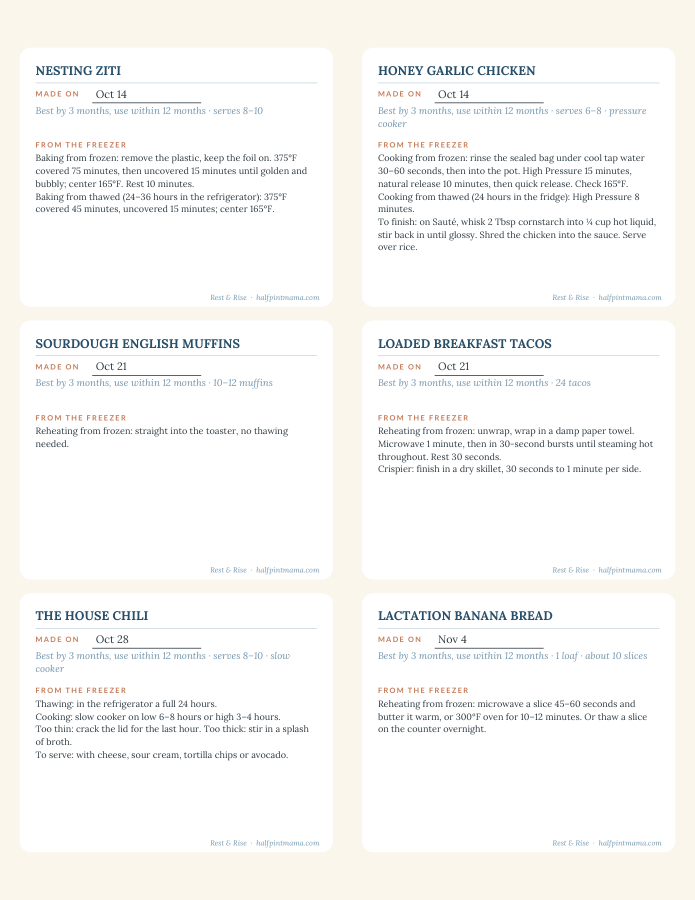
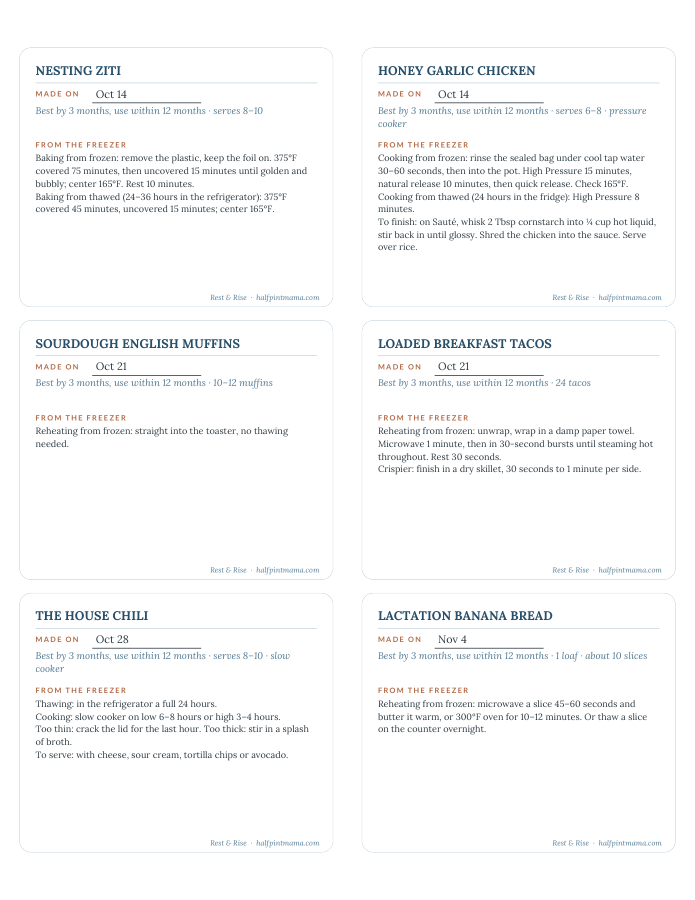
Show the labels in the cart, print-safe label colours, clearer guide
Preorder checkout carries the labels as a $0.00 line with the ship-date
note saying they are included free; after launch the pay page offers them
as an add-on. Orders now read their products from the paid line items as
well as the stamped metadata, so an add-on is fulfilled. The confirmation
names the free labels. Setup creates the $0 bonus price, found by lookup
key. Label sheets print on white with a hairline card and darker small
text so they read in black and white; the guide says to click away to
auto-fill and names the hand-write sheet.

diff --git a/src/lib/shop/labels-pdf.ts b/src/lib/shop/labels-pdf.ts
@@ -74,7 +74,11 @@ const ASSET_DIR = path.join(process.cwd(), "private", "shop");
 const INK = rgb(0x2d / 255, 0x3a / 255, 0x43 / 255);
 const NAVY = rgb(0x27 / 255, 0x4f / 255, 0x6a / 255);
 const STEEL = rgb(0x6f / 255, 0x94 / 255, 0xae / 255);
-const TERRACOTTA = rgb(0xc5 / 255, 0x7b / 255, 0x57 / 255);
+// Small text in the two accent colours is darkened a step from the book's
+// values so it still reads when a buyer prints in black and white: the book's
+// steel and terracotta both grey out to about 55% and vanish at 8pt.
+const STEEL_TEXT = rgb(0x4f / 255, 0x78 / 255, 0x94 / 255);
+const TERRACOTTA = rgb(0xb3 / 255, 0x6a / 255, 0x46 / 255);
 const TINT = rgb(0xe0 / 255, 0xe9 / 255, 0xee / 255);
 const CREAM = rgb(0xfb / 255, 0xf6 / 255, 0xec / 255);
 const WHITE = rgb(1, 1, 1);
@@ -126,7 +130,7 @@ async function loadFonts(doc: PDFDocument): Promise<Fonts> {
 
 // ---- drawing helpers ---------------------------------------------------------
 
-function roundedRect(page: PDFPage, x: number, y: number, w: number, h: number, r: number, color: Color) {
+function roundedRect(page: PDFPage, x: number, y: number, w: number, h: number, r: number, color: Color, border?: { color: Color; width: number; opacity?: number }) {
   // drawSvgPath takes y-down coordinates relative to (x, y) = top-left.
   const d = [
     `M ${r} 0`,
@@ -140,7 +144,7 @@ function roundedRect(page: PDFPage, x: number, y: number, w: number, h: number, 
     `A ${r} ${r} 0 0 1 ${r} 0`,
     "Z",
   ].join(" ");
-  page.drawSvgPath(d, { x, y: y + h, color, borderWidth: 0 });
+  page.drawSvgPath(d, { x, y: y + h, color, borderWidth: border?.width ?? 0, borderColor: border?.color, borderOpacity: border?.opacity });
 }
 
 function tracked(page: PDFPage, text: string, x: number, y: number, size: number, font: PDFFont, color: Color, spacing: number) {
@@ -205,7 +209,7 @@ function labelGeometry(slot: Slot) {
 
 function drawLabelArt(page: PDFPage, slot: Slot, fonts: Fonts, handwrite: boolean) {
   const g = labelGeometry(slot);
-  roundedRect(page, g.card.x, g.card.y, g.card.w, g.card.h, 10, WHITE);
+  roundedRect(page, g.card.x, g.card.y, g.card.w, g.card.h, 10, WHITE, { color: STEEL, width: 0.6, opacity: 0.55 });
 
   // Captions in the book's section-head style: Lato Bold, tracked, terracotta.
   tracked(page, "MADE ON", g.x, g.made.y + 4, 6.5, fonts.caps, TERRACOTTA, 1.2);
@@ -229,7 +233,7 @@ function drawLabelArt(page: PDFPage, slot: Slot, fonts: Fonts, handwrite: boolea
 
   // Quiet footer, like the running foot of the book.
   const foot = "Rest & Rise  ·  halfpintmama.com";
-  page.drawText(foot, { x: g.card.x + g.card.w - 12 - fonts.italic.widthOfTextAtSize(foot, 6.5), y: g.card.y + 6, size: 6.5, font: fonts.italic, color: STEEL });
+  page.drawText(foot, { x: g.card.x + g.card.w - 12 - fonts.italic.widthOfTextAtSize(foot, 6.5), y: g.card.y + 6, size: 6.5, font: fonts.italic, color: STEEL_TEXT });
 }
 
 // Renders a recipe onto a hand-write label as static text (used only for the
@@ -240,14 +244,18 @@ export function previewLabel(page: PDFPage, slot: Slot, fonts: Fonts, name: stri
   const size = Math.min(11, (11 * g.w) / Math.max(g.w, fonts.bold.widthOfTextAtSize(upper, 11)));
   page.drawText(upper, { x: g.x, y: g.title.y + 5, size, font: fonts.bold, color: NAVY });
   page.drawText(made, { x: g.made.x + 3, y: g.made.y + 3, size: 9.5, font: fonts.body, color: INK });
-  paragraph(page, meta, g.x, g.meta.y + g.meta.height - 9, g.w, 8.5, fonts.italic, STEEL, 11.5);
+  paragraph(page, meta, g.x, g.meta.y + g.meta.height - 9, g.w, 8.5, fonts.italic, STEEL_TEXT, 11.5);
   paragraph(page, directions, g.x, g.dir.y + g.dir.height - 9, g.w, 8, fonts.body, INK, 11.2);
 }
 
-function stampFooter(page: PDFPage, fonts: Fonts, email: string) {
+function stampFooter(page: PDFPage, fonts: Fonts, email: string, note?: string) {
   const s = LABEL_SHEET;
-  const text = `Licensed to ${email}  |  Rest & Rise by Half Pint Mama  |  halfpintmama.com  |  Avery ${s.averyWaterproof} (or ${s.avery}) ${s.sizeAscii}, ${s.perSheet} per sheet, print at 100% (actual size)`;
-  page.drawText(text, { x: s.marginLeft, y: 14, size: 6.5, font: fonts.stamp, color: STEEL });
+  // The hand-write sheet says what it is instead of repeating the sheet spec,
+  // which the guide already gives; the line has to fit the page.
+  const text = note
+    ? `${note}  |  Licensed to ${email}  |  Rest & Rise by Half Pint Mama  |  halfpintmama.com`
+    : `Licensed to ${email}  |  Rest & Rise by Half Pint Mama  |  halfpintmama.com  |  Avery ${s.averyWaterproof} (or ${s.avery}) ${s.sizeAscii}, ${s.perSheet} per sheet, print at 100% (actual size)`;
+  page.drawText(text, { x: s.marginLeft, y: 14, size: 6.5, font: fonts.stamp, color: STEEL_TEXT });
 }
 
 // ---- the guide page ----------------------------------------------------------
@@ -298,7 +306,7 @@ function drawGuide(page: PDFPage, fonts: Fonts, email: string) {
   ]);
 
   section("Filling them in", [
-    `Open this file on a computer in Adobe Acrobat Reader (free), Chrome, Edge or Firefox. On each label, click the recipe box and pick a recipe from the book, or type your own. When you pick a book recipe, the best-by line and the freezer directions fill themselves in. Every box stays editable, so shorten or add to anything you like.`,
+    `Open this file on a computer in Adobe Acrobat Reader (free), Chrome, Edge or Firefox. On each label, click the recipe box and pick a recipe from the book, or type your own. Then click anywhere outside the box (or press Tab): the best-by line and the freezer directions fill themselves in. Every box stays editable, so shorten or add to anything you like.`,
     `Apple Preview shows the boxes but will not fill them in for you; type the directions from the book instead, or use one of the readers above.`,
     `Write the date you made the meal. The best-by line fills itself in: most meals are best by three months and safe to use within twelve. Save a copy when you are done so your sheet is there next time.`,
   ]);
@@ -306,7 +314,8 @@ function drawGuide(page: PDFPage, fonts: Fonts, email: string) {
   section("Before you print", [
     `Print pages ${LABEL_PAGE_RANGE} only. This page is for you, not the label sheet.`,
     `Set your printer to Actual Size, or 100 percent. Never Fit to Page. This is the one setting that keeps the text lined up with the labels.`,
-    `Do a test run on plain paper first, then hold it against a blank label sheet up to a window to check the alignment. Once it lines up, load your labels and print. The last label page has no text boxes; it is for handwriting.`,
+    `Do a test run on plain paper first, then hold it against a blank label sheet up to a window to check the alignment. Once it lines up, load your labels and print.`,
+    `The last page is a hand-write sheet: the same card with writing lines, for your own recipes or anything not in the book.`,
   ]);
 
   section("On the bag", [
@@ -371,8 +380,10 @@ export async function buildLabelsPdf({ email, createdAt, prefill }: LabelsPdfOpt
 
   for (let p = 0; p < FILLABLE_PAGES + BLANK_PAGES; p++) {
     const fillable = p < FILLABLE_PAGES;
+    // Label pages get no page colour: they print onto white label stock, and a
+    // tinted page would just be toner over the whole sheet (and a grey wash in
+    // black and white). The guide page keeps the book's cream.
     const page = doc.addPage([s.pageWidth, s.pageHeight]);
-    page.drawRectangle({ x: 0, y: 0, width: s.pageWidth, height: s.pageHeight, color: CREAM });
 
     slots().forEach((slot, i) => {
       drawLabelArt(page, slot, fonts, !fillable);
@@ -411,7 +422,7 @@ export async function buildLabelsPdf({ email, createdAt, prefill }: LabelsPdfOpt
       const meta = form.createTextField(`meta_${n}`);
       meta.enableMultiline();
       meta.setMaxLength(120);
-      meta.addToPage(page, { ...g.meta, borderWidth: 0, backgroundColor: WHITE, textColor: STEEL, font: fonts.italic });
+      meta.addToPage(page, { ...g.meta, borderWidth: 0, backgroundColor: WHITE, textColor: STEEL_TEXT, font: fonts.italic });
       meta.setFontSize(8.5);
       if (pre) meta.setText(recipeMeta(pre));
       meta.updateAppearances(fonts.italic);
@@ -425,7 +436,7 @@ export async function buildLabelsPdf({ email, createdAt, prefill }: LabelsPdfOpt
       dir.updateAppearances(fonts.body);
     });
 
-    stampFooter(page, fonts, email);
+    stampFooter(page, fonts, email, fillable ? undefined : "HAND-WRITE SHEET: for your own recipes or anything not in the book");
   }
 
   const when = createdAt ?? new Date();
@@ -443,4 +454,4 @@ export async function buildLabelsPdf({ email, createdAt, prefill }: LabelsPdfOpt
 }
 
 // For the preview renderer: same fonts and geometry as the real file.
-export const _internals = { loadFonts, slots, drawLabelArt, labelGeometry, CREAM };
+export const _internals = { loadFonts, slots, drawLabelArt, labelGeometry, CREAM, WHITE };

diff --git a/src/app/(site)/api/checkout/route.ts b/src/app/(site)/api/checkout/route.ts
@@ -4,6 +4,7 @@ import { getClientIp, isSameOrigin } from "@/lib/http";
 import { SITE_URL } from "@/lib/seo";
 import { PRODUCTS, getShopPhase, isPurchasable, requiresShipping, type ProductId } from "@/lib/shop/catalog";
 import { META_PHASE, META_PRODUCTS, META_SHIP_ESTIMATE } from "@/lib/shop/orders";
+import { getLabelsBonusPriceId } from "@/lib/shop/prices";
 import {
   collectsTax,
   getMaxBooksPerOrder,
@@ -69,6 +70,16 @@ export async function POST(request: Request) {
     const physical = requiresShipping([product]);
     const shippingRate = process.env.STRIPE_SHIPPING_RATE;
 
+    // The labels ride along with the book: during preorder as a $0.00 line the
+    // buyer can see in the cart, after launch as an optional add-on on the pay
+    // page. Neither changes what the metadata promises; fulfilment reads the
+    // paid lines back from Stripe.
+    const bonusPriceId = phase === "preorder" && product === "book" ? await getLabelsBonusPriceId() : null;
+    const labelsAddOn =
+      phase === "launched" && product === "book" && process.env.STRIPE_PRICE_LABELS
+        ? { optional_items: [{ price: process.env.STRIPE_PRICE_LABELS, quantity: 1 }] }
+        : {};
+
     const session = await getStripe().checkout.sessions.create({
       mode: "payment",
       // Opt out of Managed Payments, Stripe's merchant-of-record product, which
@@ -88,7 +99,9 @@ export async function POST(request: Request) {
             ? { adjustable_quantity: { enabled: true, minimum: 1, maximum: maxBooks } }
             : {}),
         },
+        ...(bonusPriceId ? [{ price: bonusPriceId, quantity: 1 }] : []),
       ],
+      ...labelsAddOn,
       success_url: `${origin}/shop/success?session_id={CHECKOUT_SESSION_ID}`,
       cancel_url: `${origin}/shop`,
       metadata,
@@ -117,7 +130,9 @@ export async function POST(request: Request) {
             // The stated ship date, on the payment page itself (FTC Mail Order
             // Rule: a preorder must say when it ships before taking money).
             custom_text: {
-              submit: { message: `This is a preorder. Your book ships ${shipEstimate}.` },
+              submit: {
+                message: `This is a preorder. Your book ships ${shipEstimate}. Your printable freezer labels are included free and arrive by email as soon as payment clears.`,
+              },
             },
           }
         : {}),

diff --git a/src/lib/shop/orders.ts b/src/lib/shop/orders.ts
@@ -70,6 +70,16 @@ function isRefunded(charge: Stripe.Charge | null): boolean {
   return captured > 0 && charge.amount_refunded >= captured;
 }
 
+// Which product a Stripe Price belongs to, by the env the shop is configured
+// with. Unknown or missing prices map to nothing.
+export function productForPrice(priceId: string | undefined | null): ProductId | null {
+  if (!priceId) return null;
+  for (const id of Object.keys(PRODUCTS) as ProductId[]) {
+    if (process.env[PRODUCTS[id].priceEnv] === priceId) return id;
+  }
+  return null;
+}
+
 // Pure: builds an Order from a session that was retrieved with
 // `payment_intent.latest_charge` expanded. Fails closed — a session without our
 // metadata (not created by our checkout route) has no products and so grants
@@ -77,10 +87,19 @@ function isRefunded(charge: Stripe.Charge | null): boolean {
 export function orderFromSession(session: Stripe.Checkout.Session): Order {
   const meta = session.metadata ?? {};
   const phase: ShopPhase = meta[META_PHASE] === "launched" ? "launched" : "preorder";
-  const productIds = (meta[META_PRODUCTS] ?? "")
+  const stamped = (meta[META_PRODUCTS] ?? "")
     .split(",")
     .map((s) => s.trim())
     .filter((s): s is ProductId => s in PRODUCTS);
+  // After launch the pay page offers the labels as an add-on, which only ever
+  // appears in the line items. Map each paid line back to a product by its
+  // Price ID. The $0 preorder bonus line uses a different Price and so maps to
+  // nothing here; that entitlement comes from the phase, not the cart.
+  const lines = session.line_items?.data ?? [];
+  const fromCart = lines
+    .map((li) => productForPrice(li.price?.id))
+    .filter((id): id is ProductId => id !== null);
+  const productIds = [...new Set([...stamped, ...fromCart])];
 
   const pi = typeof session.payment_intent === "object" ? session.payment_intent : null;
   const charge = pi && typeof pi.latest_charge === "object" ? pi.latest_charge : null;
@@ -100,7 +119,8 @@ export function orderFromSession(session: Stripe.Checkout.Session): Order {
       }
     : null;
 
-  const quantity = session.line_items?.data?.[0]?.quantity ?? 1;
+  const bookLine = lines.find((li) => productForPrice(li.price?.id) === "book") ?? lines[0];
+  const quantity = bookLine?.quantity ?? 1;
 
   return {
     sessionId: session.id,

diff --git a/src/lib/shop/prices.ts b/src/lib/shop/prices.ts
@@ -45,3 +45,19 @@ export async function getDisplayPrice(id: ProductId): Promise<DisplayPrice> {
   cache.set(priceId, { value, expires: Date.now() + TTL_MS });
   return value;
 }
+
+// The $0 "free with preorder" Price on the labels product, created by
+// scripts/shop/setup-stripe.mjs and found by its lookup key so there is no env
+// var to forget. Null when it does not exist; checkout then simply omits the
+// line rather than failing.
+export const LABELS_BONUS_LOOKUP_KEY = "hpm_labels_bonus";
+let bonusCache: { id: string | null; expires: number } | null = null;
+
+export async function getLabelsBonusPriceId(): Promise<string | null> {
+  if (bonusCache && bonusCache.expires > Date.now()) return bonusCache.id;
+  const found = await getStripe().prices.list({ lookup_keys: [LABELS_BONUS_LOOKUP_KEY], active: true, limit: 1 });
+  const price = found.data[0];
+  const id = price && price.unit_amount === 0 ? price.id : null;
+  bonusCache = { id, expires: Date.now() + TTL_MS };
+  return id;
+}

diff --git a/src/lib/shop/email.ts b/src/lib/shop/email.ts
@@ -124,7 +124,13 @@ const SIGN_OFF_TEXT = "\nWith love,\nKeegan\nhalfpintmama.com | @halfpint.mama\n
 
 function orderLines(order: Order): { items: string; total: string; shipTo: string[] } {
   const qty = order.quantity > 1 ? ` \u00d7 ${order.quantity}` : "";
-  const items = (order.productIds.map((id) => PRODUCTS[id].name).join(" + ") || "your order") + qty;
+  const bought = order.productIds.map((id) => PRODUCTS[id].name).join(" + ") || "your order";
+  // The preorder bonus is not a purchased line, but the buyer should see it
+  // named on their order all the same.
+  const bonus = order.phase === "preorder" && order.productIds.includes("book") && !order.productIds.includes("labels")
+    ? " + Printable Freezer Labels (free with preorder)"
+    : "";
+  const items = bought + qty + bonus;
   const total = order.amountTotal != null && order.currency ? formatMoney(order.amountTotal, order.currency) : "";
   const ship = order.shipping;
   const shipTo = ship

diff --git a/src/app/(site)/shop/labels/[token]/page.tsx b/src/app/(site)/shop/labels/[token]/page.tsx
@@ -136,8 +136,9 @@ export default async function LabelsDeliveryPage({ params }: { params: Promise<{
                   Apple Preview shows the boxes but will not fill them in for you.
                 </li>
                 <li>
-                  On each label, pick a recipe from the list and the best-by line and the freezer
-                  directions fill themselves in, or type your own. Add the date you made it. Page 1 is the guide, pages {LABEL_PAGE_RANGE} are
+                  On each label, pick a recipe from the list, then click outside the box or press
+                  Tab: the best-by line and the freezer directions fill themselves in. Or type your
+                  own. Add the date you made it. Page 1 is the guide, pages {LABEL_PAGE_RANGE} are
                   labels, and the last page is blank for handwriting.
                 </li>
                 <li>
